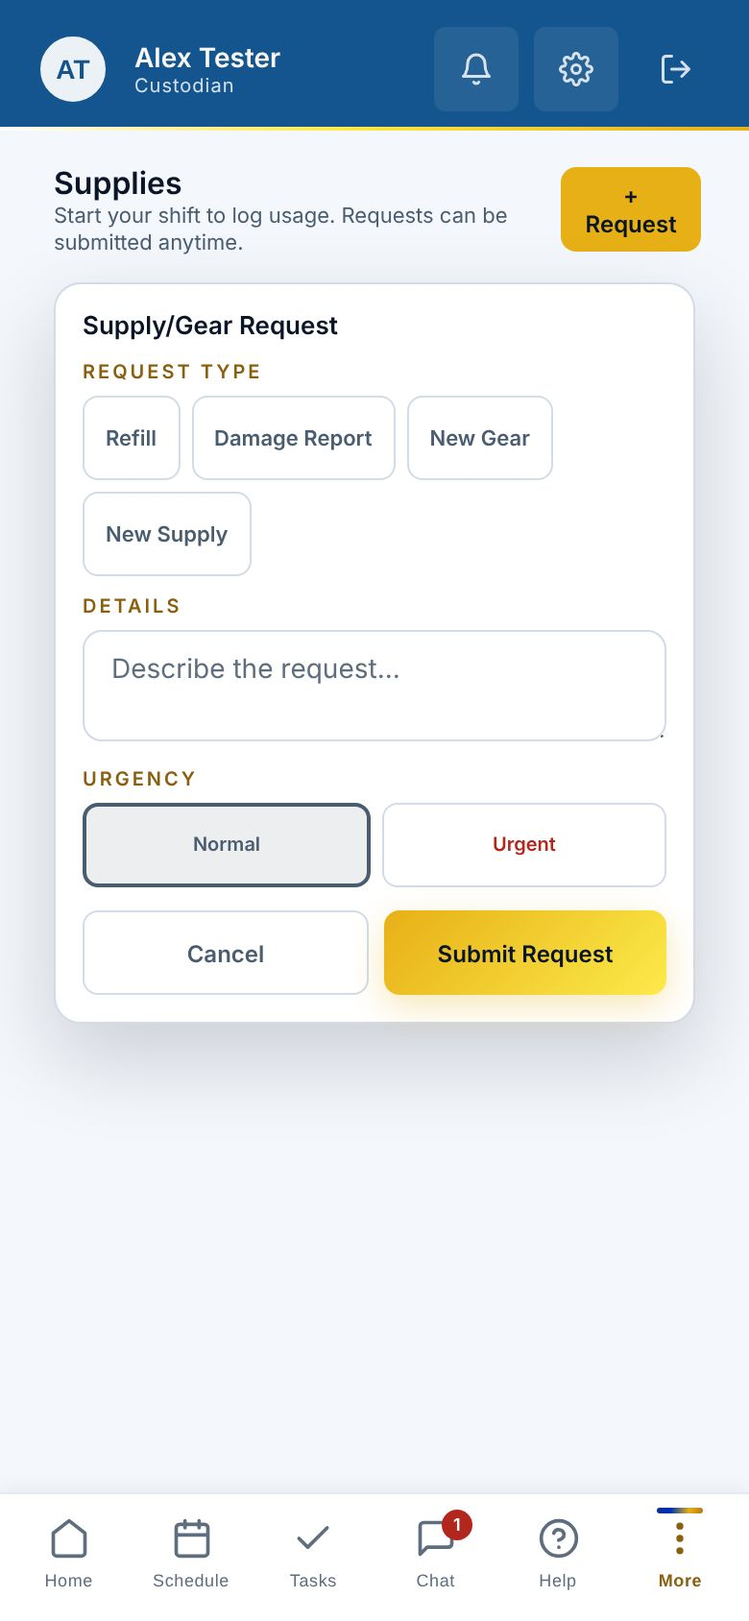
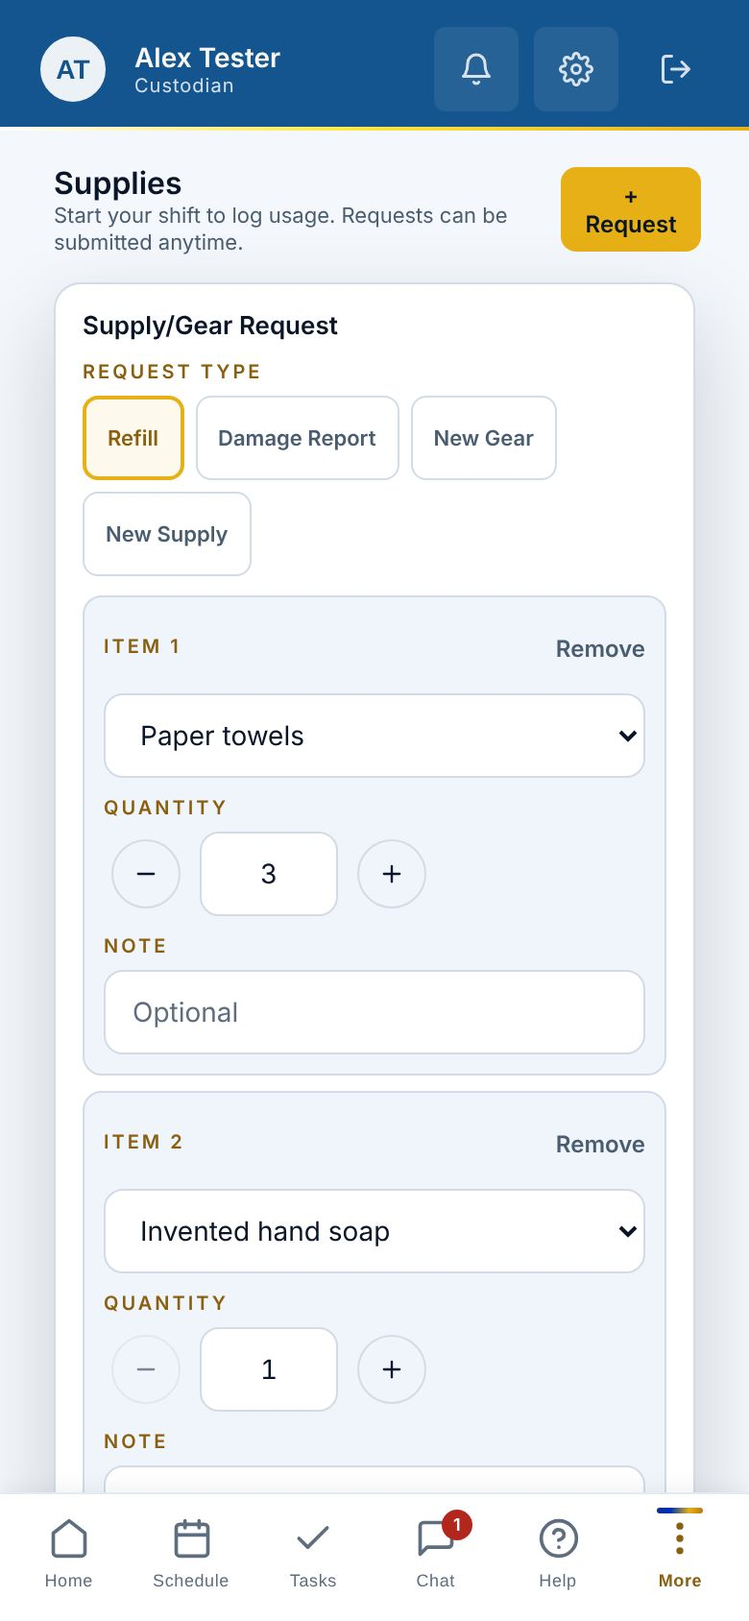
The words, the guide, the stub and the smoke check for a supply request with many items
Eleven new words in English, Spanish and French, in src/words.js and
translation/portal_words.csv, and Fulfilled for a request's status.

Request supplies or report damaged gear says how to list items with a
quantity and a note, Add item and Remove, and where My requests shows
each item's decision; its picture is taken again on a refill with two
items, and a second picture shows My requests.

The stub's supplyItems switch answers an API with Step 280 built: a
catalog of four, the person's requests with items, one decided three of
five approved and one denied with a note, items taken and refused with
supplies.badDetails and their keys. The smoke, in English at 390 and
Spanish at 320, reads the decided request, posts a refill of three items
once in order after one is removed, reads a refusal under an item's
name, refuses the 31st item on the phone, and sends a damage report as
before.

Claude-Session: https://claude.ai/code/session_016sEwFqMi1sNVYoUTbDEJAy

diff --git a/audit/stub.js b/audit/stub.js
@@ -408,6 +408,31 @@ const PROPERTY_SEED = [
   { id: "pi-2", kind: "uniform_shirt", description: null, size: "L", quantity: 2, siteId: null, issuedOn: "2026-09-01", issuedBy: "Jordan Office", note: null, returnedOn: null, requestId: null, signedWhere: "office" },
   { id: "pi-3", kind: "badge", description: null, size: null, quantity: 1, siteId: "site-south", issuedOn: "2026-03-02", issuedBy: "Jordan Office", note: null, returnedOn: "2026-08-30", requestId: null, signedWhere: "office" },
 ];
+// Step 281: an API with Step 280 built, behind the supplyItems switch.
+// The catalog the request form offers, and the person's requests as GET
+// /api/supplies/requests answers them, each with its items: one refill
+// the office decided, three of five paper towels approved and the glass
+// cleaner denied with a note, and another person's request, which the
+// API answers management alone. Every value invented.
+const SUPPLY_CATALOG = [
+  { id: "sup-1", name: "Paper towels", qr_code: "QR-0001", unit: "rolls", is_low: true },
+  { id: "sup-2", name: "Invented hand soap", qr_code: "QR-0002", unit: "bottles", is_low: false },
+  { id: "sup-3", name: "Invented trash liners", qr_code: "QR-0003", unit: "boxes", is_low: false },
+  { id: "sup-4", name: "Invented glass cleaner", qr_code: "QR-0004", unit: "bottles", is_low: false },
+];
+const SUPPLY_DENY_NOTE = "Invented: the closet still holds four.";
+const supplyLine = (id, sup, quantity, extra) => Object.assign({ id: id, supplyId: sup ? sup.id : null, name: sup ? sup.name : "", unit: sup ? sup.unit : "", quantity: quantity, note: null, decision: null, approvedQuantity: null, decisionNote: null, decidedAt: null, decidedBy: null }, extra || {});
+const SUPPLY_REQ_SEED = () => [
+  { id: "sreq-2", requested_by: "u-two", requested_by_name: "Sam Second", site_id: "site-north", site_name: "North Building", supply_id: "sup-2", supply_name: "Invented hand soap", request_type: "refill", item_name: null, description: null, urgency: "normal", status: "pending", admin_notes: null, handled_by: null, handled_at: null, created_at: "2026-10-01T15:00:00Z",
+    items: [supplyLine("sri-3", SUPPLY_CATALOG[1], 4)] },
+  { id: "sreq-1", requested_by: "u-one", requested_by_name: "Alex Tester", site_id: "site-north", site_name: "North Building", supply_id: "sup-1", supply_name: "Paper towels", request_type: "refill", item_name: null, description: "For the lobby restrooms, invented.", urgency: "normal", status: "approved", admin_notes: null, handled_by: "u-admin", handled_at: "2026-09-30T16:00:00Z", created_at: "2026-09-29T14:00:00Z",
+    items: [
+      supplyLine("sri-1", SUPPLY_CATALOG[0], 5, { decision: "approved", approvedQuantity: 3, decidedAt: "2026-09-30T16:00:00Z", decidedBy: { name: "Jordan Office" } }),
+      supplyLine("sri-2", SUPPLY_CATALOG[3], 2, { decision: "denied", decisionNote: SUPPLY_DENY_NOTE, decidedAt: "2026-09-30T16:00:00Z", decidedBy: { name: "Jordan Office" } }),
+    ] },
+];
+const SUPPLY_TYPES = ["refill", "damage_report", "new_gear", "new_supply"];
+
 // The warning's document, served at the API's own path behind the token
 // (Step 270 as built): a one-page PDF with one line, invented.
 const WARNING_PDF = Buffer.from("%PDF-1.4\n1 0 obj<</Type/Catalog/Pages 2 0 R>>endobj\n2 0 obj<</Type/Pages/Kids[3 0 R]/Count 1>>endobj\n3 0 obj<</Type/Page/Parent 2 0 R/MediaBox[0 0 300 144]/Contents 4 0 R/Resources<</Font<</F1 5 0 R>>>>>>endobj\n4 0 obj<</Length 58>>stream\nBT /F1 18 Tf 24 90 Td (Invented written warning) Tj ET\nendstream\nendobj\n5 0 obj<</Type/Font/Subtype/Type1/BaseFont/Helvetica>>endobj\ntrailer<</Root 1 0 R>>\n%%EOF\n", "latin1");
@@ -812,9 +837,13 @@ function makeState(opts) {
     signatures: o.signatures === true,
     signRequests: o.signatures === true ? JSON.parse(JSON.stringify(SIGN_SEED)) : [],
     propertyIssues: o.signatures === true ? JSON.parse(JSON.stringify(PROPERTY_SEED)) : [],
+    // Step 281: an API with Step 280 built, whose supply requests take
+    // and answer items, with the person's requests seeded.
+    supplyItems: o.supplyItems === true,
+    supplyRequests: o.supplyItems === true ? SUPPLY_REQ_SEED() : [],
     // The supplies at the open shift's site, which a case can answer
     // with none. null answers the one supply every case has always had.
-    supplies: Array.isArray(o.supplies) ? o.supplies : null,
+    supplies: Array.isArray(o.supplies) ? o.supplies : o.supplyItems === true ? SUPPLY_CATALOG.map(x => Object.assign({}, x)) : null,
     // A due date on the assigned task, as the API sends one, when a case
     // gives it: a DATE column reaches JSON as that day at midnight UTC.
     assignedDue: o.assignedDue || null,
@@ -1527,6 +1556,8 @@ const API_REFUSALS = {
   "timeOff.lastBeforeFirst": { status: 400, en: "The last day cannot be before the first day", es: "El \u00faltimo d\u00eda no puede ser anterior al primer d\u00eda" },
   "pickups.alreadyClaimed": { status: 409, en: "Shift was already claimed", es: "Este turno ya fue tomado" },
   "supplies.requestTypeRequired": { status: 400, en: "Request type is required", es: "Elija el tipo de solicitud" },
+  // Step 280: a request's items the API turns away, with the keys it names.
+  "supplies.badDetails": { status: 400, en: "Some details are missing or not valid", es: "Faltan algunos datos o no son v\u00e1lidos" },
   // Photos on a form, as the API's Step 163 writes them. The limit names
   // the question's own ceiling, which is what fills {max}.
   "forms.photoTooLarge": { status: 400, en: "This photo is over 10 MB.", es: "Esta foto pesa m\u00e1s de 10 MB." },
@@ -1907,6 +1938,7 @@ const TWIN_PAIRS = [
   ["Day porter", "Conserje de d\u00eda"],
   // Messages and Help's reply.
   ["Usage logged", "Uso registrado"],
+  ["Request submitted", "Solicitud enviada"],
   ["Take the pads from the second floor store room.", "Tome los pa\u00f1os del almac\u00e9n del segundo piso."],
   // Help's other answers, the procedure one cites, and its refusals.
   [helpReply(HELP_ANSWERS.spill), HELP_ANSWERS.spill.piecesEs.join("")],
@@ -2050,6 +2082,9 @@ const ROUTE_WORDS = [
   // reader's language; the area, the site, the note and every person are
   // names; the states are codes.
   [/^[A-Z]+ \/api\/issues\//, { categoryTitle: "request category", area: "name", siteName: "name", note: "name", name: "name", reference: "name", category: "code", respondState: "code", dueState: "code", route: "code", action: "code", details: "name", text: "name" }],
+  // Supply requests (Step 280): every line's name, unit and notes, and
+  // the request's details, are names; a decision is a code.
+  [/^[A-Z]+ \/api\/supplies\/requests$/, { name: "name", unit: "name", note: "name", decisionNote: "name", description: "name", item_name: "name", supply_name: "name", site_name: "name", requested_by_name: "name", request_type: "code", urgency: "code", decision: "code" }],
   // The supply label: the product and its maker are names.
   [/^GET \/api\/(public\/)?supplies\//, { name: "name", maker: "name", code: "name", category: "code", unit: "name", sdsCode: "name", sdsUrl: "name", siteName: "name" }],
   // A piece of Help's answer, as the streaming route sends it.
@@ -2526,6 +2561,51 @@ function createStub(opts) {
     if (r.chat) return chatRefusal(r.chat, search);
     if (r.api) return apiRefusal(r.api, search);
     return json(r.status || 400, r.body || { error: r.error || "Request failed" });
+  }
+
+  // --- Supply requests with items (Step 281), behind state.supplyItems
+  //
+  // The person's own requests, or everyone's for management, newest
+  // first; and a request taken as Step 280 takes it: items, 1 to 30, each
+  // a catalog supply or a typed name with a quantity from 1 to 999 and a
+  // note of up to 500, refused with supplies.badDetails and the keys
+  // items or items.<n>.<field>, n counting from 0. A body with no items
+  // is one line, quantity 1, from supplyId or itemName.
+  function supplyRequestAnswer(method, search, body, lang) {
+    const copy = (r) => JSON.parse(JSON.stringify(r));
+    if (method === "GET") {
+      const all = FK_MANAGEMENT.indexOf(state.person.role) !== -1;
+      const status = new URLSearchParams(search || "").get("status");
+      return json(200, state.supplyRequests.filter(r => (all || r.requested_by === state.person.id) && (!status || r.status === status)).sort((a, b) => (a.created_at < b.created_at ? 1 : -1)).map(copy));
+    }
+    const b = body && typeof body === "object" ? body : {};
+    if (!b.requestType) return apiRefusal("supplies.requestTypeRequired", search);
+    const bad = (keys) => json(400, { error: refusalIn(API_REFUSALS["supplies.badDetails"], lang), code: "supplies.badDetails", keys: keys });
+    if (SUPPLY_TYPES.indexOf(b.requestType) === -1) return bad(["requestType"]);
+    const catalog = state.supplies || SUPPLY_CATALOG;
+    const given = b.items !== undefined ? b.items : [{ supplyId: b.supplyId || undefined, itemName: b.itemName || undefined, quantity: 1 }];
+    if (!Array.isArray(given) || given.length < 1 || given.length > 30 || (b.requestType === "damage_report" && given.length !== 1)) return bad(["items"]);
+    const keys = [];
+    const lines = given.map((x, i) => {
+      const it = x && typeof x === "object" ? x : {};
+      const sup = it.supplyId ? catalog.find(s => s.id === it.supplyId) : null;
+      const typed = typeof it.itemName === "string" ? it.itemName.trim() : "";
+      if (it.supplyId && !sup) keys.push("items." + i + ".supplyId");
+      else if (!it.supplyId && (typed.length < 1 || typed.length > 255)) keys.push("items." + i + ".itemName");
+      if (!Number.isInteger(it.quantity) || it.quantity < 1 || it.quantity > 999) keys.push("items." + i + ".quantity");
+      if (it.note !== undefined && it.note !== null && (typeof it.note !== "string" || it.note.length > 500)) keys.push("items." + i + ".note");
+      return supplyLine("sri-" + (state.supplyRequests.length + 1) + "-" + (i + 1), sup || null, it.quantity, sup ? { note: it.note || null } : { name: typed, note: it.note || null });
+    });
+    if (keys.length > 0) return bad(keys);
+    const first = lines[0];
+    const row = {
+      id: "sreq-" + (state.supplyRequests.length + 1), requested_by: state.person.id, requested_by_name: state.person.firstName + " " + state.person.lastName,
+      site_id: b.siteId || null, site_name: b.siteId ? ((SITES.find(x => x.siteId === b.siteId) || {}).siteName || null) : null,
+      supply_id: first.supplyId, supply_name: first.supplyId ? first.name : null, request_type: b.requestType, item_name: first.supplyId ? (b.itemName || null) : first.name,
+      description: b.description || null, urgency: b.urgency || "normal", status: "pending", admin_notes: null, handled_by: null, handled_at: null, created_at: new Date(clockNow()).toISOString(), items: lines,
+    };
+    state.supplyRequests.push(row);
+    return json(201, { message: "Request submitted", code: "supplies.requestSubmitted", request: copy(row) });
   }
 
   // --- The supervisor's field kit (Step 246), behind state.fieldKit
@@ -3915,6 +3995,7 @@ function createStub(opts) {
     }
     if (key === "GET /api/supplies") return json(200, state.supplies || [{ id: "sup-1", name: "Paper towels", qr_code: "QR-0001", unit: "rolls", is_low: true }]);
     if (key === "POST /api/supplies/log-usage") return json(200, { message: "Usage logged", log: { id: "log-1", supply_name: "Paper towels", quantity: 1 }, lowStockAlert: false });
+    if (state.supplyItems && (key === "GET /api/supplies/requests" || key === "POST /api/supplies/requests")) return supplyRequestAnswer(method, search, body, lang);
     if (key === "POST /api/supplies/requests") return json(200, { ok: true });
 
     // --- inspections
@@ -4139,4 +4220,5 @@ module.exports = { createStub, servedFor, replyPieces, HELP_ANSWERS, HELP_REFUSA
   API_REFUSALS, FILE_REFUSALS, FORM_P_MAX_PHOTOS, SIGNATURE_MAX_BYTES, localeFault, localeRows,
   CUSTOMER_LINKS, FORM_C_CODE, FORM_V_CODE, formC, formV, PUBLIC_SITE, PUBLIC_COMPANY, PUBLIC_MAX_PHOTOS, PUBLIC_FILINGS_MAX, customerSignatureLine,
   ANNOUNCEMENT, FORM_E_WORDS,
-  REQUEST_LINKS, REQUEST_CATEGORIES, REQUEST_WORDS, REQUEST_REF, REQUEST_OFFICE_PHONE, requestWord, requestCategoryTitle, REQUEST_ASSIGNEES, SUP_CODE, SUP_ITEM, SUP_SITES };
+  REQUEST_LINKS, REQUEST_CATEGORIES, REQUEST_WORDS, REQUEST_REF, REQUEST_OFFICE_PHONE, requestWord, requestCategoryTitle, REQUEST_ASSIGNEES, SUP_CODE, SUP_ITEM, SUP_SITES,
+  SUPPLY_CATALOG, SUPPLY_DENY_NOTE };

diff --git a/audit/smoke.js b/audit/smoke.js
@@ -103,6 +103,15 @@
 //     with its date; and with the routes not answering, Home has no card
 //     and More no My company property, read in the cleaner's run (English
 //     at 390, Spanish at 320)
+//   - A supply request with many items (Step 281): with an API that
+//     answers items (Step 280), My requests reads a decided request,
+//     Approved 3 of 5 and Denied with the office's note; Refill takes four
+//     items, one is removed, and Submit Request posts the three once as
+//     items in order with their quantities and note, which My requests
+//     then lists; New Gear's refusal naming items.0.itemName reads under
+//     that item's name; the 31st item is refused on the phone; Damage
+//     Report posts one supply and no items, as before (English at 390,
+//     Spanish at 320)
 //   - Step 264: Your first trainings on Home, with the document to sign
 //     and the first-day training that has a lesson; a session
 //     joined from /join/<code> with the understood tick and a signature,
@@ -131,7 +140,7 @@ const path = require("path");
 const { serve } = require("./serve");
 const { launch, openApp } = require("./browser");
 const { createStub, servedFor, ADMIN_PERSON, FORM, TWIN_ES, HELP_ANSWERS, SDS_SHEETS, WS_TODO, SECOND_STEP_CODE, SECOND_STEP_HINT, FORM_A_WORDS, FORM_W_WORDS, EQ_CODE, EQ_ITEM, FORM_N_WORDS, CONCERN_REF,
-  API_REFUSALS, requestWord, requestCategoryTitle, REQUEST_REF, SUP_CODE, SUP_ITEM, SUP_SITES, INSPECTION_F, FINDING_REFUSALS, TRAINING_ME, TRAINING_LESSONS, TRAINING_AWAITING, TRAINING_REFUSALS, TRAINING_SESSION_SEED, TRAINING_OBSERVATION, TRAINING_DOCUMENT, TRAINING_CATEGORIES, LESSON_IMAGE_HOST, SIGN_SEED, SIGN_WORDS, PROPERTY_KIND_WORDS, STAFF } = require("./stub");
+  API_REFUSALS, requestWord, requestCategoryTitle, REQUEST_REF, SUP_CODE, SUP_ITEM, SUP_SITES, INSPECTION_F, FINDING_REFUSALS, TRAINING_ME, TRAINING_LESSONS, TRAINING_AWAITING, TRAINING_REFUSALS, TRAINING_SESSION_SEED, TRAINING_OBSERVATION, TRAINING_DOCUMENT, TRAINING_CATEGORIES, LESSON_IMAGE_HOST, SIGN_SEED, SIGN_WORDS, PROPERTY_KIND_WORDS, STAFF, SUPPLY_DENY_NOTE } = require("./stub");
 const { inspect } = require("./screens");
 const { sort: sortKnown } = require("./known");
 
@@ -1428,6 +1437,90 @@ async function signOnPhone(browser, language, width) {
     !card ? "no card reading 3 to sign on Home" : !listed ? "the list did not read as expected" : !keyScreen ? "the key's screen did not read as expected" : !held ? "Sign with no signature was not held" : !signed ? "the signed line did not show" : !cardAfter ? "Home did not read 2 to sign" : !disputed ? "This is not right did not read as expected" : !warningScreen ? "the warning's screen did not read as expected" : !pdfOpened ? "Open the warning did not open a tab at the PDF" : !declined ? "the declined line did not show" : !done ? "the signed key's address did not read as done" : !property ? "My company property did not read as expected" : !sent ? JSON.stringify({ signs: signs.length, disputes, declines }) : Math.max(wide, wide2) > 1 ? Math.max(wide, wide2) + " pixels sideways" : app.errors[0]);
 }
 
+// A supply request with many items (Step 281), against an API that
+// answers items (Step 280): My requests reads the decided request,
+// Approved 3 of 5 and Denied with the office's note; Refill takes four
+// items, one is removed, and the three go once as items in order with
+// their quantities and note, then show under My requests; New Gear's
+// refusal naming items.0.itemName reads under that item's name; the
+// 31st item is refused on the phone; and Damage Report posts one supply
+// and no items, as it always has.
+async function supplyLines(browser, language, width) {
+  const tag = " (" + language + ", " + width + " wide)";
+  const app = await open({ supplyItems: true, accountPreferences: { language: language, textSize: "standard" } }, { browser, language, signedIn: true, width: width });
+  const page = app.page;
+  const posts = () => app.stub.state.calls.filter(c => c.method === "POST" && c.path === "/api/supplies/requests").map(c => c.body);
+  const formOpen = async (type) => {
+    await clickWord(page, say(language, "+ Request"));
+    await waitFor(page, (w) => document.body.innerText.indexOf(w) !== -1, say(language, "Supply/Gear Request"));
+    await clickWord(page, say(language, type));
+  };
+  const inBar = await waitFor(page, BAR_JS + ".length >= 5");
+  if (inBar) await tapMore(page, say(language, "Supplies"));
+  const decided = inBar && await waitFor(page, (w) => {
+    const c = document.querySelector('[data-supply-req="sreq-1"]');
+    const a = c && c.querySelector('[data-supply-req-line="0"] [data-supply-decision="approved"]');
+    const d = c && c.querySelector('[data-supply-req-line="1"] [data-supply-decision="denied"]');
+    return !!a && !!d && a.innerText.trim() === w.approved && d.innerText.trim() === w.denied && c.querySelector('[data-supply-req-line="1"]').innerText.indexOf(w.note) !== -1 && c.querySelector('[data-supply-req-line="0"]').innerText.indexOf(w.qty) !== -1;
+  }, { approved: say(language, "Approved {n} of {m}", { n: 3, m: 5 }), denied: say(language, "Denied"), note: say(language, "Note: {note}", { note: SUPPLY_DENY_NOTE }), qty: say(language, "Quantity: {n}", { n: 5 }) + " rolls" });
+  let lines = false, three = false, listed = false, refused = false, capped = false, damage = false, wide = 0;
+  if (decided) { await formOpen("Refill"); lines = await waitFor(page, () => !!document.querySelector('[data-supply-lines="1"] [data-supply-line-supply="0"]') && !!document.querySelector("[data-supply-add]")); }
+  if (lines) {
+    for (let i = 0; i < 3; i += 1) await page.click("[data-supply-add]");
+    const more = say(language, "One more");
+    await page.selectOption('[data-supply-line-supply="0"]', "sup-1");
+    await page.click('[data-supply-line="0"] [aria-label="' + more + '"]');
+    await page.click('[data-supply-line="0"] [aria-label="' + more + '"]');
+    await page.selectOption('[data-supply-line-supply="1"]', "sup-2");
+    await page.fill('[data-supply-line-qty="1"]', "7");
+    await page.selectOption('[data-supply-line-supply="2"]', "sup-3");
+    await page.fill('[data-supply-line-qty="2"]', "12");
+    await page.fill('[data-supply-line-note="2"]', "Invented: the large ones.");
+    await page.selectOption('[data-supply-line-supply="3"]', "sup-4");
+    wide = await sideways(page);
+    await page.click('[data-supply-line-remove="1"]');
+    three = await waitFor(page, () => !!document.querySelector('[data-supply-lines="3"]'));
+    await page.click("[data-supply-send]");
+    listed = three && await waitFor(page, (w) => {
+      const c = document.querySelector('[data-supply-req="sreq-3"]');
+      const rows = c ? Array.from(c.querySelectorAll("[data-supply-req-line]")).map(x => x.innerText) : [];
+      return !document.querySelector("[data-supply-lines]") && rows.length === 3 && w.every((q, i) => rows[i].indexOf(q) !== -1);
+    }, [say(language, "Quantity: {n}", { n: 3 }) + " rolls", say(language, "Quantity: {n}", { n: 12 }) + " boxes", say(language, "Quantity: {n}", { n: 1 }) + " bottles"]);
+  }
+  const refill = posts().filter(b => b && b.requestType === "refill");
+  const sentOnce = refill.length === 1 && JSON.stringify(refill[0].items) === JSON.stringify([{ supplyId: "sup-1", quantity: 3 }, { supplyId: "sup-3", quantity: 12, note: "Invented: the large ones." }, { supplyId: "sup-4", quantity: 1 }]) && refill[0].urgency === "normal" && !("supplyId" in refill[0]);
+  if (listed) {
+    // New Gear: the API turns the typed name away, under that item.
+    const said = API_REFUSALS["supplies.badDetails"][language];
+    await formOpen("New Gear");
+    await waitFor(page, () => !!document.querySelector('[data-supply-line-name="0"]'));
+    await page.fill('[data-supply-line-name="0"]', "Invented floor pads");
+    app.stub.state.refuse["POST /api/supplies/requests"] = { status: 400, once: true, body: { error: said, code: "supplies.badDetails", keys: ["items.0.itemName"] } };
+    await page.click("[data-supply-send]");
+    refused = await waitFor(page, (w) => { const n = document.querySelector('[data-supply-line-name="0"]'); const a = n && n.nextElementSibling; return !!a && a.getAttribute("role") === "alert" && a.innerText.trim() === w; }, said);
+    // Thirty items, and the 31st refused on the phone.
+    await page.evaluate(async () => { for (let i = 0; i < 30; i += 1) { const b = document.querySelector("[data-supply-add]"); if (b) b.click(); await new Promise(r => setTimeout(r, 0)); } });
+    capped = await waitFor(page, (w) => { const b = document.querySelector("[data-supply-add]"); const a = b && b.nextElementSibling; return !!document.querySelector('[data-supply-lines="30"]') && !!a && a.innerText.trim() === w; }, say(language, "A request holds up to 30 items."));
+    wide = Math.max(wide, await sideways(page));
+    await clickWord(page, say(language, "Cancel"));
+    // Damage Report: one supply and no items, as before.
+    await formOpen("Damage Report");
+    const plain = await waitFor(page, () => !document.querySelector("[data-supply-lines]") && !document.querySelector("[data-supply-add]") && !!document.querySelector('select option[value="sup-2"]'));
+    if (plain) {
+      await page.selectOption('select:has(option[value="sup-2"])', "sup-2");
+      await page.click("[data-supply-send]");
+      damage = await waitFor(page, (w) => document.body.innerText.indexOf(w) !== -1 && !document.querySelector("[data-supply-send]"), say(language, "Request submitted"));
+    }
+  }
+  const all = posts();
+  const dmg = all.filter(b => b && b.requestType === "damage_report");
+  const damageSent = dmg.length === 1 && dmg[0].supplyId === "sup-2" && dmg[0].itemName === "Invented hand soap" && !("items" in dmg[0]);
+  await app.context.close();
+  check("A supply request with many items: My requests reads Approved 3 of 5 and Denied with the office's note; Refill takes four items, one is removed, and Submit Request posts the three once as items in order with their quantities and note, which My requests then lists; New Gear's refusal naming items.0.itemName reads under that item's name; the 31st item is refused on the phone; Damage Report posts one supply and no items, as before; with no sideways scroll" + tag,
+    decided && lines && three && listed && sentOnce && refused && capped && damage && damageSent && all.length === 3 && wide <= 1 && app.errors.length === 0,
+    !decided ? "My requests did not read the decided request" : !lines ? "Refill did not offer items" : !three ? "removing an item did not leave three" : !listed ? "My requests did not list the new request's three items" : !sentOnce ? JSON.stringify(refill) : !refused ? "the refusal did not read under the item's name" : !capped ? "the 31st item was not refused on the phone" : !damage ? "the damage report did not go" : !damageSent ? JSON.stringify(dmg) : all.length !== 3 ? all.length + " posts" : wide > 1 ? wide + " pixels sideways" : app.errors[0]);
+}
+
 // The supply page (Step 252): signed out, the sheet in the page and Sign
 // in to record use; signed in, Used one and Running low.
 async function supplyPage(browser, language) {
@@ -1502,6 +1595,8 @@ async function largest(browser) {
     await guard("the training portal (es)", () => trainingPortal(browser, "es", 320));
     await guard("sign on your own phone (en)", () => signOnPhone(browser, "en", 390));
     await guard("sign on your own phone (es)", () => signOnPhone(browser, "es", 320));
+    await guard("a supply request with many items (en)", () => supplyLines(browser, "en", 390));
+    await guard("a supply request with many items (es)", () => supplyLines(browser, "es", 320));
     await guard("the supply page", () => supplyPage(browser, "en"));
     await guard("French", () => french(browser));
     await guard("the Largest text size", () => largest(browser));

diff --git a/audit/shots.js b/audit/shots.js
@@ -582,8 +582,25 @@ const SHOTS = [
     go: async (s) => { if (!(await openAssigned(s))) return false; await s.tap(s.say("Resolved")); return s.waitText(s.say("Mark as Resolved")); } },
   { name: "assigned-cannot", entry: E("Say you cannot finish an assigned task"), o: { signedIn: true },
     go: async (s) => { if (!(await openAssigned(s))) return false; await s.tap(s.say("Cannot Resolve")); return s.waitText(s.say("Submit")); } },
-  { name: "supply-request", entry: E("Request supplies or report damaged gear"), o: { signedIn: true, stub: { clockedIn: false } },
-    go: async (s) => { if (!(await s.go("Supplies"))) return false; await s.tap(s.say("+ Request")); return s.waitText(s.say("Supply/Gear Request")); } },
+  // Step 281: a refill with two items, against an API that takes items,
+  // and the person's own requests with the office's decisions.
+  { name: "supply-request", entry: E("Request supplies or report damaged gear"), o: { signedIn: true, stub: { clockedIn: false, supplyItems: true } },
+    go: async (s) => {
+      if (!(await s.go("Supplies"))) return false;
+      await s.tap(s.say("+ Request"));
+      if (!(await s.waitText(s.say("Supply/Gear Request")))) return false;
+      await s.tap(s.say("Refill"));
+      if (!(await s.waitFor(() => !!document.querySelector('[data-supply-line-supply="0"]')))) return false;
+      await s.page.selectOption('[data-supply-line-supply="0"]', "sup-1");
+      await s.fill('[data-supply-line-qty="0"]', "3");
+      await s.tap(s.say("Add item"));
+      if (!(await s.waitFor(() => !!document.querySelector('[data-supply-line-supply="1"]')))) return false;
+      await s.page.selectOption('[data-supply-line-supply="1"]', "sup-2");
+      await s.top();
+      return true;
+    } },
+  { name: "supply-requests-mine", entry: E("Request supplies or report damaged gear"), o: { signedIn: true, stub: { clockedIn: false, supplyItems: true } },
+    go: async (s) => { if (!(await s.go("Supplies"))) return false; return s.waitFor(() => !!document.querySelector('[data-supply-req="sreq-1"] [data-supply-decision="denied"]')); } },
   { name: "supply-usage", entry: E("Log supplies you used"), o: { signedIn: true },
     go: async (s) => { if (!(await s.go("Supplies"))) return false; return s.waitText(s.say("Supply Tracking")); } },
   { name: "inspection-open", entry: E("Do an inspection assigned to you"), o: { signedIn: true, stub: { inspections: [INSPECTION] } },

diff --git a/src/words.js b/src/words.js
@@ -1332,6 +1332,18 @@ export const WORDS = {
   "The warning did not open. Try again.": "La amonestaci\u00f3n no se abri\u00f3. Intente de nuevo.",
   "Written warning": "Amonestaci\u00f3n por escrito",
   "Final written warning": "Amonestaci\u00f3n final por escrito",
+  // Step 281: a supply request with many items
+  "Fulfilled": "Entregada",
+  "My requests": "Mis solicitudes",
+  "Quantity: {n}": "Cantidad: {n}",
+  "Approved {n} of {m}": "Aprobado: {n} de {m}",
+  "Showing your latest 10 requests.": "Mostrando sus 10 solicitudes m\u00e1s recientes.",
+  "Item {n}": "Art\u00edculo {n}",
+  "Remove item {n}": "Quitar art\u00edculo {n}",
+  "Add item": "Agregar art\u00edculo",
+  "Choose a supply": "Elija un art\u00edculo",
+  "Enter a quantity from 1 to 999.": "Escriba una cantidad de 1 a 999.",
+  "A request holds up to 30 items.": "Una solicitud lleva hasta 30 art\u00edculos.",
   },
 };
 
@@ -2545,6 +2557,18 @@ WORDS.fr = {
   "The warning did not open. Try again.": "L'avertissement ne s'est pas ouvert. R\u00e9essayez.",
   "Written warning": "Avertissement \u00e9crit",
   "Final written warning": "Avertissement final \u00e9crit",
+  // Step 281: a supply request with many items
+  "Fulfilled": "Livr\u00e9e",
+  "My requests": "Mes demandes",
+  "Quantity: {n}": "Quantit\u00e9\u00a0: {n}",
+  "Approved {n} of {m}": "Approuv\u00e9\u00a0: {n} sur {m}",
+  "Showing your latest 10 requests.": "Vos 10 demandes les plus r\u00e9centes sont affich\u00e9es.",
+  "Item {n}": "Article {n}",
+  "Remove item {n}": "Retirer l'article {n}",
+  "Add item": "Ajouter un article",
+  "Choose a supply": "Choisissez un article",
+  "Enter a quantity from 1 to 999.": "Entrez une quantit\u00e9 de 1 \u00e0 999.",
+  "A request holds up to 30 items.": "Une demande compte au plus 30 articles.",
 };
 
 // {name} is replaced after the language is chosen, so the

diff --git a/audit/inventory.js b/audit/inventory.js
@@ -140,7 +140,7 @@ const FORM_CASES = [
   { id: "dropshift", label: "Request to drop a shift", where: "Schedule", fields: "reason (required); specify the reason (required when Other); notes" },
   { id: "issue", label: "Report a problem", where: "Report", fields: "title (required); description; zone; severity; site (required when off shift); photo" },
   { id: "supplyusage", label: "Log supply usage", where: "Supplies", fields: "supply (required); quantity (required)" },
-  { id: "supplyrequest", label: "Request supplies or report damaged gear", where: "Supplies", fields: "type (required); item name (required for new gear or a new supply); description; urgency" },
+  { id: "supplyrequest", label: "Request supplies or report damaged gear", where: "Supplies", fields: "type (required); item name (required for new gear or a new supply); description; urgency; since Step 281, once the API answers items, items for a refill, new gear or a new supply (1 to 30, each a supply or an item name with a quantity from 1 to 999 and a note)" },
   { id: "resolvetask", label: "Resolve an assigned task", where: "Assigned", fields: "note (required); photo (required)" },
   { id: "speakup", label: "Speak Up", where: "Speak Up", fields: "who it is about; what happened (required)" },
   { id: "inspection", label: "Fill in an inspection", where: "Inspect", fields: "a score per item (required); notes per item; photos; overall notes" },

diff --git a/guide/APP-PORTAL.md b/guide/APP-PORTAL.md
@@ -195,13 +195,16 @@ Who can do this: anyone signed in, with or without a shift started
 1. Tap **More** (**Más**) (**Plus**), then **Supplies** (**Suministros**) (**Fournitures**). With no shift started the screen says **Start your shift to log usage. Requests can be submitted anytime.** (**Comience su turno para registrar el uso. Las solicitudes se pueden enviar en cualquier momento.**) (**Commencez votre service pour noter l'utilisation. Les demandes peuvent être envoyées à tout moment.**)
 2. Tap **+ Request** (**+ Solicitar**) (**+ Demander**). The form is headed **Supply/Gear Request** (**Solicitud de suministros o equipo**) (**Demande de fournitures ou d'équipement**).
 3. Under **Request Type** (**Tipo de solicitud**) (**Type de demande**), tap the kind of request, such as **Refill** (**Reposición**) (**Réapprovisionnement**), **Damage Report** (**Reporte de daño**) (**Signalement de dégât**), **New Gear** (**Equipo nuevo**) (**Nouvel équipement**) or **New Supply** (**Suministro nuevo**) (**Nouvelle fourniture**).
-4. For a refill or a damage report, choose the item under **Supply Item** (**Artículo**) (**Article**). For new gear or a new supply, type it under **Item Name** (**Nombre del artículo**) (**Nom de l'article**); it is required. Describe what you need under **Details** (**Detalles**) (**Détails**) if you want.
-5. Under **Urgency** (**Urgencia**) (**Urgence**), tap how urgent it is. It starts on **Normal** (**Normal**) (**Normale**).
-6. Tap **Submit Request** (**Enviar solicitud**) (**Envoyer la demande**). The form closes, and **Request submitted** (**Solicitud enviada**) (**Demande envoyée**) says it went. You get a notice when it is approved or denied.
-If it does not work: **Select a request type** (**Elija un tipo de solicitud**) (**Choisissez un type de demande**) or **Enter the item name** (**Escriba el nombre del artículo**) (**Entrez le nom de l'article**) says what is missing. If OCSA turns the request away, the reason shows at the top of the screen and the form has closed: tap **+ Request** (**+ Solicitar**) (**+ Demander**) and fill it in again. **Cancel** (**Cancelar**) (**Annuler**) closes the form without sending.
-Words people use for this: i need supplies, out of trash bags, need gloves, order supplies, broken vacuum, need a mop, necesito suministros, pedir suministros.
+4. For a refill, new gear or a new supply, list each thing you need as its own item. For a refill, choose it under **Supply Item** (**Artículo**) (**Article**); for new gear or a new supply, type it under **Item Name** (**Nombre del artículo**) (**Nom de l'article**). Set its **Quantity** (**Cantidad**) (**Quantité**): type the number, or tap minus and plus. It starts at 1 and goes up to 999. Write a **Note** (**Nota**) (**Note**) for that item if you want. Tap **Add item** (**Agregar artículo**) (**Ajouter un article**) for the next one, up to 30 in one request, and **Remove** (**Quitar**) (**Retirer**) takes an item off.
+5. For a damage report, choose the one item under **Supply Item** (**Artículo**) (**Article**).
+6. Describe the whole request under **Details** (**Detalles**) (**Détails**) if you want. Under **Urgency** (**Urgencia**) (**Urgence**), tap how urgent it is. It starts on **Normal** (**Normal**) (**Normale**).
+7. Tap **Submit Request** (**Enviar solicitud**) (**Envoyer la demande**). Every item goes in one request. The form closes, and **Request submitted** (**Solicitud enviada**) (**Demande envoyée**) says it went. You get a notice when it is approved or denied.
+8. Your 10 newest requests show under **My requests** (**Mis solicitudes**) (**Mes demandes**), each item with its quantity. Once the office decides an item, it reads **Approved {n} of {m}** (**Aprobado: {n} de {m}**) (**Approuvé : {n} sur {m}**), the number approved of the number you asked for, or **Denied** (**Denegada**) (**Refusée**) with the office's note.
+If it does not work: **Select a request type** (**Elija un tipo de solicitud**) (**Choisissez un type de demande**) says what is missing. Under an item, **Choose a supply** (**Elija un artículo**) (**Choisissez un article**), **Enter the item name** (**Escriba el nombre del artículo**) (**Entrez le nom de l'article**) or **Enter a quantity from 1 to 999.** (**Escriba una cantidad de 1 a 999.**) (**Entrez une quantité de 1 à 999.**) says what to fix. At 30 items, **A request holds up to 30 items.** (**Una solicitud lleva hasta 30 artículos.**) (**Une demande compte au plus 30 articles.**) shows under **Add item** (**Agregar artículo**) (**Ajouter un article**): send these and start another request. If OCSA turns the request away, the reason shows under the item it is about, or above **Submit Request** (**Enviar solicitud**) (**Envoyer la demande**), and the form stays open to fix it. For a damage report, the reason shows at the top of the screen and the form has closed: tap **+ Request** (**+ Solicitar**) (**+ Demander**) and fill it in again. **Cancel** (**Cancelar**) (**Annuler**) closes the form without sending.
+Words people use for this: i need supplies, out of trash bags, need gloves, order supplies, broken vacuum, need a mop, more than one item, several items, how many, quantity, did my request get approved, necesito suministros, pedir suministros, varios artículos, cantidad.
 Picture: supply-request
-Last checked: 2026-10-02
+Picture: supply-requests-mine
+Last checked: 2026-10-06
 
 ## Log supplies you used (staff portal)
 Who can do this: anyone with a shift started

diff --git a/audit/README.md b/audit/README.md
@@ -74,7 +74,14 @@ list of what waits, a key signed with the signature drawn, PPE sent back
 to the office with a note, a written warning opened and declined, the
 signed key's address reading done, My company property with what the
 person holds and returned, and with the routes not answering no card and
-no More item, in English at 390 and Spanish at 320;
+no More item, in English at 390 and Spanish at 320; a supply request
+with many items (Step 281), against an API that answers items: My
+requests reading a decided request, Approved 3 of 5 and Denied with the
+office's note, a refill of four items with one removed posted once as
+three items in order with their quantities and note, a refusal naming
+items.0.itemName under that item's name, the 31st item refused on the
+phone, and a damage report posted as before, one supply and no items, in
+English at 390 and Spanish at 320;
 French offered by the stub turns the screen French with no English the
 portal drew; and Home at the Largest size, 360 wide, has no control cut
 off. Each check prints one line, PASS or FAIL, and the command exits
@@ -89,7 +96,7 @@ through it.
 
 The stub routes it needs sit behind switches in `makeState` (`languages`,
 `sds`, `secondStep`, `workspace`, `customerAsks`, `equipment`,
-`concern`, `fieldKit`, `requests`, `supplyQr`, `findings`, `training`, `documents`, `trainingPortal`, `signatures`), off for every other case. The full suite below is separate
+`concern`, `fieldKit`, `requests`, `supplyQr`, `findings`, `training`, `documents`, `trainingPortal`, `signatures`, `supplyItems`), off for every other case. The full suite below is separate
 and is not run by it.
 
 ## Pictures for Help
